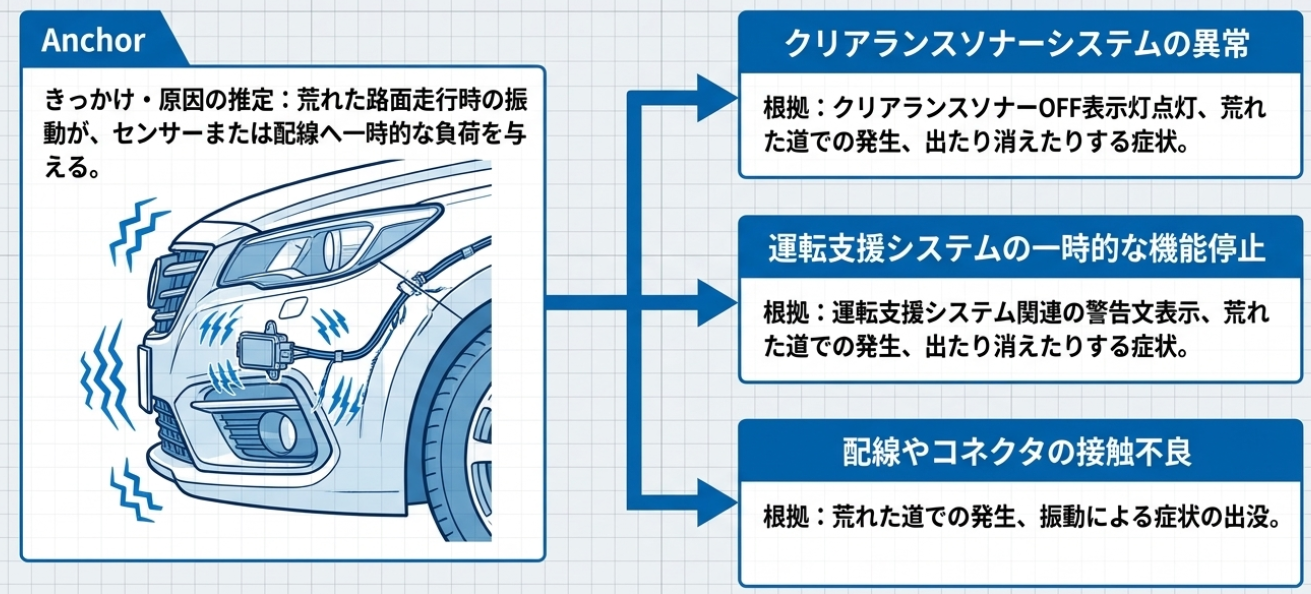
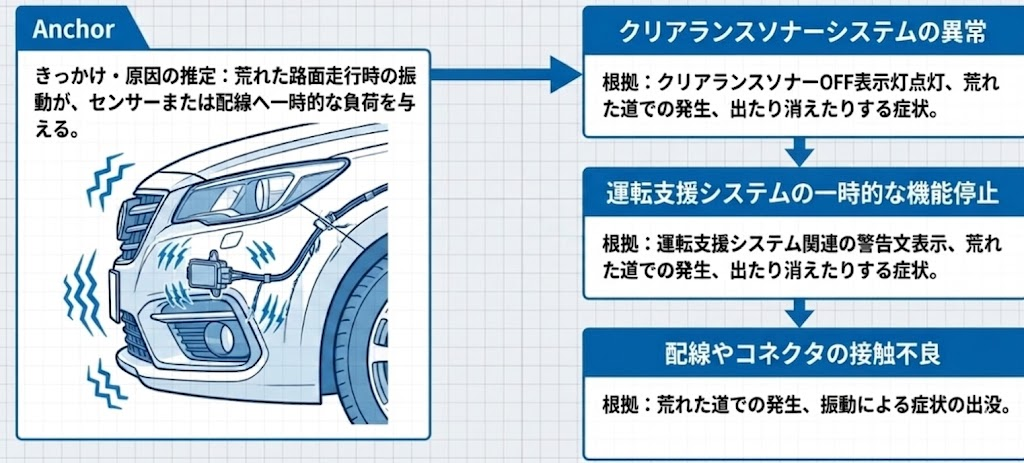
Add files via upload

Changed region(s): [[0.0, 0.0, 1.0, 0.9978]]

diff --git a/index.html b/index.html
@@ -94,6 +94,33 @@ body{font-family:'Noto Sans JP',sans-serif;background:var(--bg);color:var(--text
 .step-line{width:30px;height:2px;background:var(--glass-border);margin:0 .1rem}
 .step.done+.step-line,.step-line.done{background:var(--accent)}
 
+/* クリック可能なステップのホバー効果 */
+.step.clickable {
+  cursor: pointer;
+}
+.step.clickable:hover .step-dot {
+  transform: scale(1.08);
+  box-shadow: 0 0 10px var(--primary-dim);
+}
+.step.clickable:hover .step-label {
+  color: var(--text);
+}
+
+/* 到達済みで戻ったため、現在地より後ろにあるステップのスタイル */
+.step.visited .step-dot {
+  border-color: rgba(59, 130, 246, 0.6);
+  color: rgba(226, 232, 240, 0.8);
+  background: rgba(59, 130, 246, 0.1);
+}
+.step.visited .step-label {
+  color: rgba(226, 232, 240, 0.8);
+}
+
+/* 到達済みの接続線のスタイル */
+.step-line.visited {
+  background: rgba(59, 130, 246, 0.4);
+}
+
 /* ─── analysis card ─── */
 .fault-item{display:flex;align-items:flex-start;gap:.7rem;padding:.7rem .9rem;border-radius:10px;background:var(--surface2);border:1px solid var(--glass-border);margin-bottom:.4rem}
 .fault-icon{font-size:1.1rem;flex-shrink:0;margin-top:1px}
@@ -430,7 +457,7 @@ body{font-family:'Noto Sans JP',sans-serif;background:var(--bg);color:var(--text
 <div id="s_api" class="screen active center">
 <div class="content-wrap" style="max-width:460px;text-align:center">
   <div style="font-size:2.6rem;margin-bottom:.3rem">🔧</div>
-  <h1 style="font-size:1.5rem;font-weight:700;margin-bottom:.25rem;background:linear-gradient(135deg,var(--primary),var(--accent));-webkit-background-clip:text;-webkit-text-fill-color:transparent">故障診断 問診サポートツール <span style="font-size:0.9rem; font-weight:normal; vertical-align:middle; color:var(--text-dim)">v3.3</span></h1>
+  <h1 style="font-size:1.5rem;font-weight:700;margin-bottom:.25rem;background:linear-gradient(135deg,var(--primary),var(--accent));-webkit-background-clip:text;-webkit-text-fill-color:transparent">故障診断 問診サポートツール <span style="font-size:0.9rem; font-weight:normal; vertical-align:middle; color:var(--text-dim)">v3.4</span></h1>
   <p style="color:var(--text-dim);font-size:.85rem;margin-bottom:1.8rem;line-height:1.6">AIが深掘り質問を自動生成し<br>再現可能なレベルの問診をサポートします</p>
   <div class="glass-card" style="text-align:left">
     <div class="input-group">
@@ -984,6 +1011,7 @@ const INTAKE_OTHER = [
 //  状態
 // ══════════════════════════════════════════════════════════════
 let apiKey = '', selectedModel = 'gemini-2.5-flash';
+let reachedStepIds = new Set(['s_complaint']); // 到達済みステップIDの保持
 let complaint = '';
 let intakeAnswers = {};   // 共通問診の回答
 let intakeOtherTexts = {}; // 共通問診の「その他」自由記述テキスト
@@ -1091,6 +1119,12 @@ function go(id) {
     document.querySelectorAll('.screen').forEach(s => s.classList.remove('active'));
     target.classList.add('active');
     window.scrollTo(0, 0);
+    
+    // 到達済みステップIDに記録
+    if (typeof reachedStepIds !== 'undefined' && reachedStepIds.add) {
+      reachedStepIds.add(id);
+    }
+    
     renderSteppers(id);
   } catch (err) {
     showToast(`画面遷移エラー (${id}): ` + err.message);
@@ -1191,16 +1225,44 @@ function getSteps() {
   return steps;
 }
 
+function goToStep(stepId) {
+  if (typeof reachedStepIds !== 'undefined' && reachedStepIds.has(stepId)) {
+    go(stepId);
+  }
+}
+
 function renderSteppers(current) {
   try {
     const steps = getSteps();
     const idx = steps.findIndex(s => s.id === current);
     const html = steps.map((s, i) => {
-      const cls = i < idx ? 'step done' : i === idx ? 'step active' : 'step';
+      // 過去に到達済みかどうか
+      const isReached = typeof reachedStepIds !== 'undefined' && reachedStepIds.has(s.id);
+      
+      // クラスの決定
+      // i < idx: 通過完了(done), i === idx: 現在位置(active), i > idx かつ到達済み: visited, 未到達: step
+      const cls = i < idx ? 'step done' : i === idx ? 'step active' : isReached ? 'step visited' : 'step';
+      
       const dot = i < idx ? '✓' : s.n;
+      
+      // 接続線のクラス決定
+      // 次のステップが存在し、かつ次のステップも到達済みの場合は visited にする
+      const nextStep = steps[i+1];
+      const isNextReached = nextStep && typeof reachedStepIds !== 'undefined' && reachedStepIds.has(nextStep.id);
+      const lineClass = i < idx 
+        ? 'step-line done' 
+        : (isNextReached ? 'step-line visited' : 'step-line');
+      
       const line = i < steps.length - 1
-        ? `<div class="step-line${i < idx ? ' done' : ''}"></div>` : '';
-      return `<div class="${cls}"><div class="step-dot">${dot}</div><div class="step-label">${s.label}</div></div>${line}`;
+        ? `<div class="${lineClass}"></div>` : '';
+      
+      // クリック可能判定（過去に到達済み、かつ現在の画面ではない）
+      const isClickable = isReached && s.id !== current;
+      const clickAttr = isClickable 
+        ? ` onclick="goToStep('${s.id}')" class="${cls} clickable"` 
+        : ` class="${cls}"`;
+      
+      return `<div${clickAttr}><div class="step-dot">${dot}</div><div class="step-label">${s.label}</div></div>${line}`;
     }).join('');
     document.querySelectorAll('[id^="stepper"]').forEach(el => el.innerHTML = html);
   } catch (err) {
@@ -1272,6 +1334,10 @@ async function initApp() {
 }
 
 function startDemoMode() {
+  if (typeof reachedStepIds !== 'undefined' && reachedStepIds.clear) {
+    reachedStepIds.clear();
+    reachedStepIds.add('s_complaint');
+  }
   isDemoMode = true;
   apiKey = 'demo-key';
   selectedModel = 'gemini-2.5-flash';
@@ -1309,6 +1375,10 @@ function startDemoMode() {
 }
 
 function startDemoMode2() {
+  if (typeof reachedStepIds !== 'undefined' && reachedStepIds.clear) {
+    reachedStepIds.clear();
+    reachedStepIds.add('s_complaint');
+  }
   isDemoMode2 = true;
   isDemoMode = true;
   apiKey = 'demo-key';
@@ -1349,6 +1419,10 @@ function startDemoMode2() {
 }
 
 function startDemoMode3() {
+  if (typeof reachedStepIds !== 'undefined' && reachedStepIds.clear) {
+    reachedStepIds.clear();
+    reachedStepIds.add('s_complaint');
+  }
   isDemoMode3 = true;
   isDemoMode = true;
   apiKey = 'demo-key';
@@ -2352,31 +2426,15 @@ async function generateSummary() {
 走行中、メーターにクリアランスソナーOFF表示灯と警告文（運転支援システム関連）が点灯。未舗装路走行後に消灯する症状が数回発生。
 
 ■ 再現手順（重要！）
-1. エンジン暖機後、一般道（未舗装路）を30〜60km/hで定速走行。
-2. 荒れた路面（砂利道やデコボコ道）を走行し、振動を与える。
-3. メーター内のクリアランスソナーOFF表示灯と警告文の点灯有無を確認。
 
 ■ 推定される不具合と根拠
-- クリアランスソナーシステムの異常
-  * 根拠：クリアランスソナーOFF表示灯点灯、荒れた道での発生、出たり消えたりする症状。
-- 運転支援システム（センサー・カメラ）の一時的な機能停止
-  * 根拠：運転支援システム関連の警告文表示、荒れた道での発生、出たり消えたりする症状。
-- 配線やコネクタの接触不良
-  * 根拠：荒れた道での発生、振動による症状の出没。
 
 ■ きっかけ・原因の推定
 - 荒れた路面走行時の振動
 - センサーまたは配線への一時的な負荷
 
-■ 再発防止アドバイス
-- 未舗装路や荒れた道の走行時は、速度を控えめにしてください。
-- 症状が頻繁に発生する場合は、早めの点検をお勧めします。
-
 ■ エンジニアへの申し送り
-- 診断機を接続し、DTC（ダイアグコード）およびRoB（車両挙動データ）を読み取って問診内容との整合性を確認してください。
-- 症状再現時は加振点検（配線揺すり等）を試みてください。
-- 運転支援システム関連のセンサー・配線・コネクタを中心に点検してください。
-- ADAS関連部品の脱着・交換が予想される場合、エーミング（校正）作業が必要です。`;
+- 診断機を接続し、DTC（ダイアグコード）およびRoB（車両挙動データ）を読み取って問診内容との整合性を確認してください。`;
 
         renderSummary(summaryText);
         go('s_summary');
@@ -2391,9 +2449,6 @@ async function generateSummary() {
 雨天時、対向車からの泥はね直後、運転席側フロントバンパー付近のクリアランスソナーが一時的に機能停止し、メーターに警告文とクリアランスソナーOFF表示灯が点灯。しばらく走行後に消灯。
 
 ■ 再現手順（重要！）
-1. 雨天時、一般道（荒れた道）を30〜60km/hで定速走行。
-2. 対向車とすれ違い、運転席側フロントバンパーに泥が付着する状況を再現。
-3. メーターの警告文とクリアランスソナーOFF表示灯の点灯有無を確認。
 
 ■ 推定される不具合と根拠
 - クリアランスソナーの一時的な機能停止：クリアランスソナーOFF表示灯点灯、泥はね直後の発生。
@@ -2543,10 +2598,11 @@ function renderSummary(text) {
         if (isDemoMode) {
           if (isDemoMode3) {
             // デモ3用の画像
-            if (title.includes('症状の概要')) {
-              imgHtml = '<div style="margin-top:0.8rem;"><img src="./summary_image/demo3_01.png" style="max-width:100%; height:auto; border-radius:8px; border:1px solid var(--glass-border); box-shadow: 0 4px 12px rgba(0,0,0,0.15);" alt="症状の概要"></div>';
+            if (title.includes('再現手順')) {
+              imgHtml = '<div style="margin-top:0.8rem;"><img src="./summary_image/demo3_01.png" style="max-width:100%; height:auto; border-radius:8px; border:1px solid var(--glass-border); box-shadow: 0 4px 12px rgba(0,0,0,0.15);" alt="再現手順"></div>';
             } else if (title.includes('推定される不具合と根拠')) {
               imgHtml = '<div style="margin-top:0.8rem;"><img src="./summary_image/demo3_03.png" style="max-width:100%; height:auto; border-radius:8px; border:1px solid var(--glass-border); box-shadow: 0 4px 12px rgba(0,0,0,0.15);" alt="推定される不具合と根拠"></div>';
+              imgHtml += '<div style="margin-top:0.8rem;"><img src="./summary_image/demo3_0301.png" style="max-width:100%; height:auto; border-radius:8px; border:1px solid var(--glass-border); box-shadow: 0 4px 12px rgba(0,0,0,0.15);" alt="推定される不具合と根拠2"></div>';
             } else if (title.includes('再発防止アドバイス')) {
               imgHtml = '<div style="margin-top:0.8rem;"><img src="./summary_image/demo3_05.png" style="max-width:100%; height:auto; border-radius:8px; border:1px solid var(--glass-border); box-shadow: 0 4px 12px rgba(0,0,0,0.15);" alt="再発防止アドバイス"></div>';
             } else if (title.includes('エンジニアへの申し送り')) {
@@ -2554,8 +2610,8 @@ function renderSummary(text) {
             }
           } else {
             // デモ1・2用の画像
-            if (title.includes('症状の概要')) {
-              imgHtml = '<div style="margin-top:0.8rem;"><img src="./summary_image/01.png" style="max-width:100%; height:auto; border-radius:8px; border:1px solid var(--glass-border); box-shadow: 0 4px 12px rgba(0,0,0,0.15);" alt="症状の概要"></div>';
+            if (title.includes('再現手順')) {
+              imgHtml = '<div style="margin-top:0.8rem;"><img src="./summary_image/01.png" style="max-width:100%; height:auto; border-radius:8px; border:1px solid var(--glass-border); box-shadow: 0 4px 12px rgba(0,0,0,0.15);" alt="再現手順"></div>';
             } else if (title.includes('推定される不具合と根拠')) {
               imgHtml = '<div style="margin-top:0.8rem;"><img src="./summary_image/03.png" style="max-width:100%; height:auto; border-radius:8px; border:1px solid var(--glass-border); box-shadow: 0 4px 12px rgba(0,0,0,0.15);" alt="推定される不具合と根拠"></div>';
             } else if (title.includes('再発防止アドバイス')) {
@@ -2811,6 +2867,11 @@ function resetAll() {
   isDiagRead = false; // 診断ステートをリセット
   isDemo3ReproRun = false; // デモ3走行再現テスト実行フラグをリセット
   
+  if (typeof reachedStepIds !== 'undefined' && reachedStepIds.clear) {
+    reachedStepIds.clear();
+    reachedStepIds.add('s_complaint');
+  }
+  
   document.getElementById('complaintInput').value='';
   const meterFree = document.getElementById('meterFreeText');
   if (meterFree) meterFree.value = '';
@@ -2998,7 +3059,7 @@ async function callGeminiJson(prompt, retries=3) {
 // ══════════════════════════════════════════════════════════════
 if ('serviceWorker' in navigator) {
   window.addEventListener('load', () => {
-    navigator.serviceWorker.register('./sw.js?v=4.21')
+    navigator.serviceWorker.register('./sw.js?v=4.28')
       .then(reg => console.log('[SW] registered:', reg.scope))
       .catch(err => console.warn('[SW] registration failed:', err));
   });

diff --git a/sw.js b/sw.js
@@ -1,5 +1,5 @@
 // Service Worker — 振動・異音問診サポートツール
-const CACHE_NAME = 'monshin-tool-v4.21';
+const CACHE_NAME = 'monshin-tool-v4.28';
 const ASSETS_TO_CACHE = [
   './',
   './index.html',
